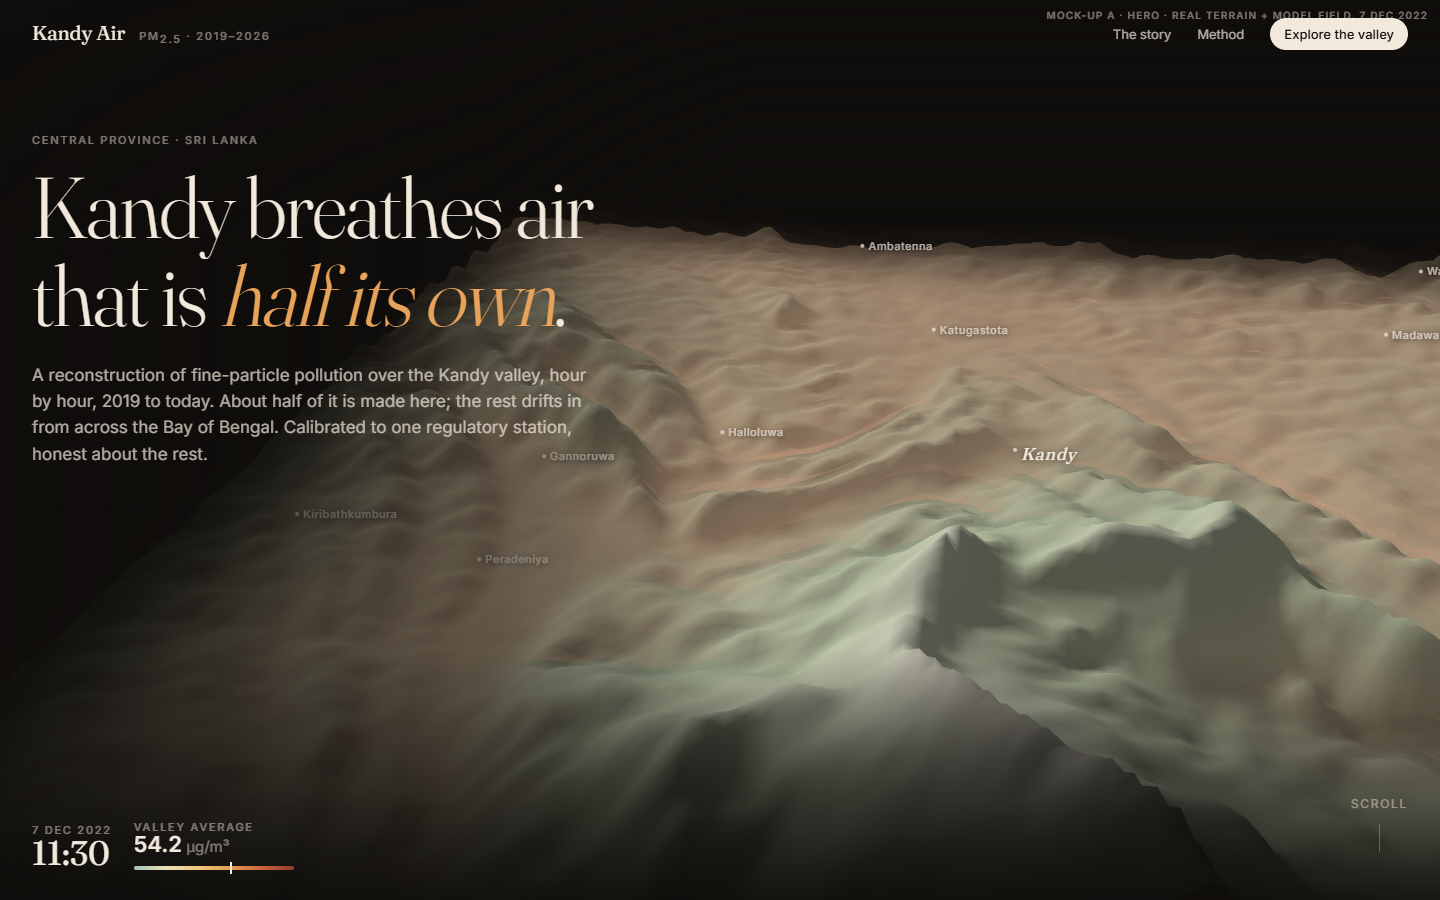
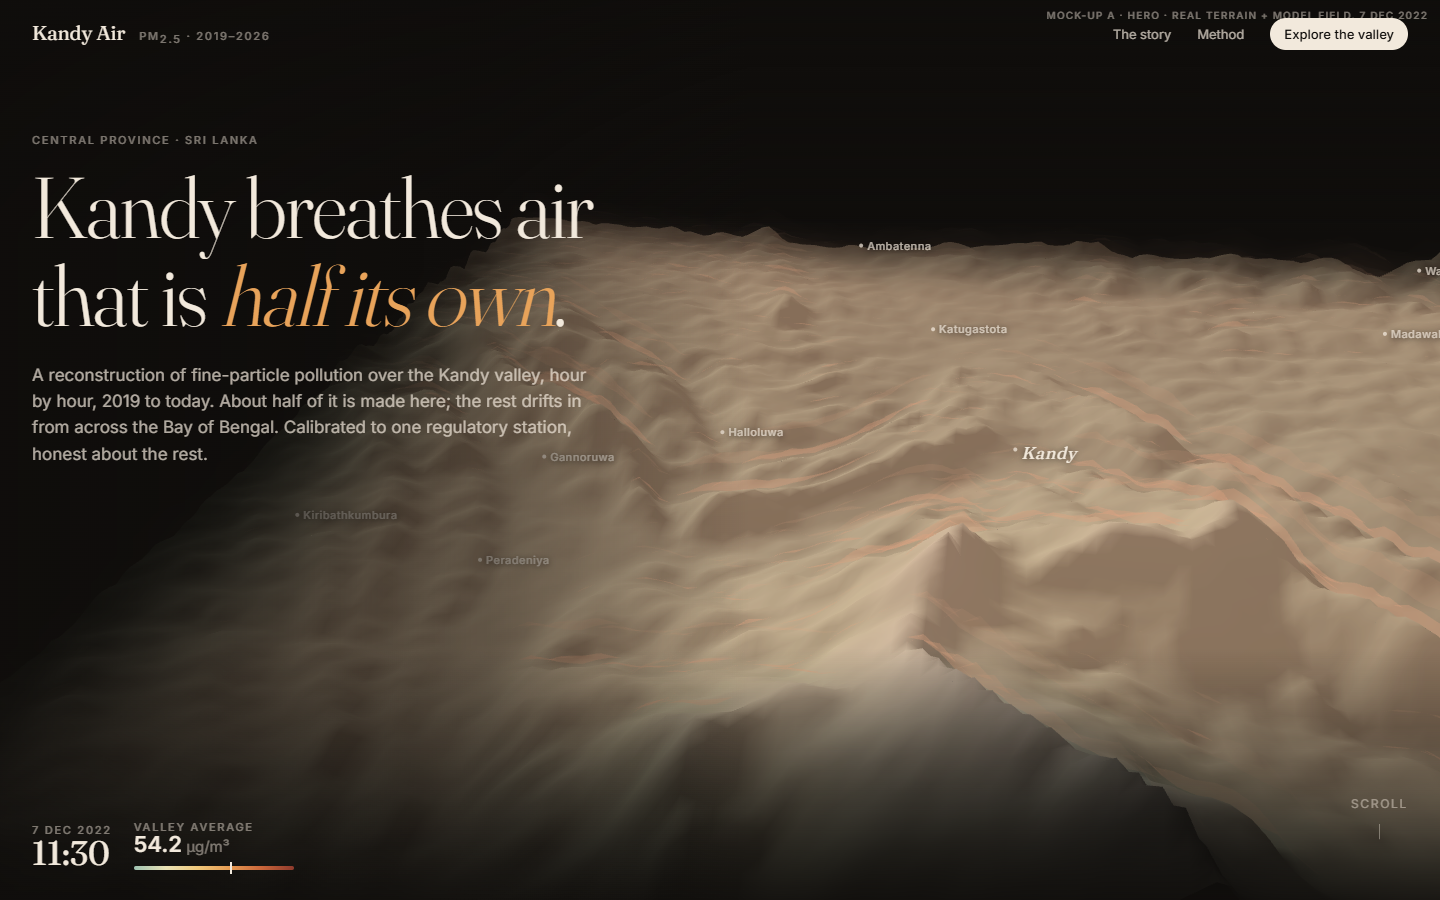
Mock-ups: haze drawn from the model value only (no elevation pooling); screenshots updated

diff --git a/design/mockups/valley.js b/design/mockups/valley.js
@@ -110,10 +110,10 @@ export async function createValley(el, { base = 'assets', camera: camOpt = {}, l
       const v = bilinear16(q50, c / (n - 1), r / (n - 1));
       const [rgb, a] = pmColour(v);
       // haze pools in low ground: weight alpha by depth below the ridges
-      // haze pools in low ground and thins to nothing on the ridges, so the valley shape reads through it
-      const z01 = (height(r, c) - terrain.zmin) / zr;
-      const pool = Math.max(0, 1 - z01 / 0.55);
-      hcol.set([rgb[0] / 255, rgb[1] / 255, rgb[2] / 255, 0.62 * a * pool * pool * edge[i]], i * 4);
+      // HONEST RENDERING (2026-10-27): colour and opacity come ONLY from the model's value in this cell. No
+      // elevation-based pooling: the model's own floor-to-ridge contrast is ~5 %, and drawing more would show a
+      // pattern the evidence does not support. The edge fade is cosmetic (the block's outer border), not data.
+      hcol.set([rgb[0] / 255, rgb[1] / 255, rgb[2] / 255, 0.5 * a * edge[i]], i * 4);
     }
     hgeo.attributes.color.needsUpdate = true;
     h2.geometry.setAttribute('color', hgeo.attributes.color);
